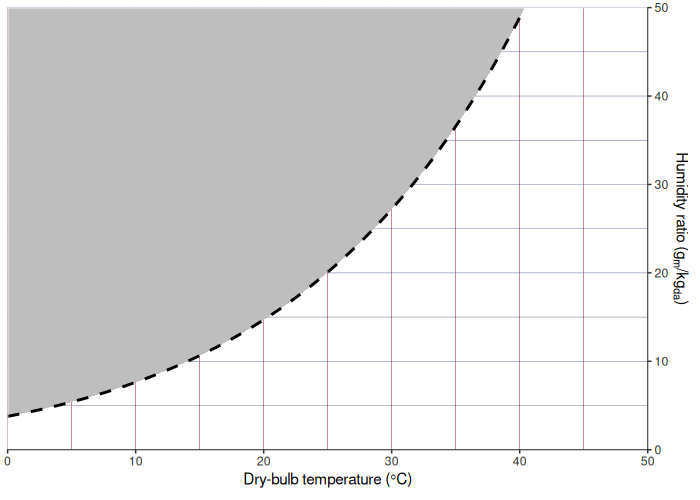
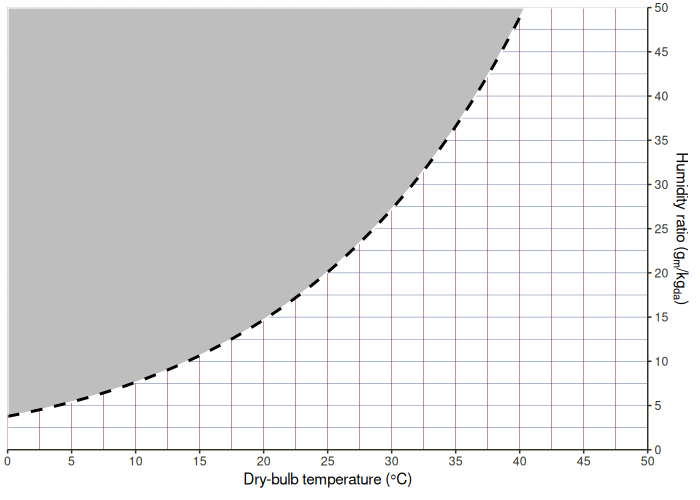
Update README.

diff --git a/README.md b/README.md
@@ -83,19 +83,34 @@ plot:
 | `geom_grid_specvol`  | Specific volume      |
 | `geom_grid_enthalpy` | Enthalpy             |
 
-All of the new geoms accept a `step` argument to specify the interval
-between each value.
+``` r
+ggpsychro() +
+    geom_grid_relhum() +
+    geom_grid_wetbulb() +
+    geom_grid_vappres() +
+    geom_grid_specvol() +
+    geom_grid_enthalpy()
+```
+
+<img src="man/figures/README-grid-1.png" width="100%" style="display: block; margin: auto;" />
+
+Each of the new geom come along with a corresponding `scale_*` which can
+be used to further customize the breaks of each grid
 
 ``` r
 ggpsychro() +
-    geom_grid_relhum(step = 20, label_loc = 0.8) +
-    geom_grid_wetbulb(step = 15, label_loc = 0.1) +
-    geom_grid_vappres(step = 1000, label = c(1000, 3000, 5000), label_loc = 0.95) +
-    geom_grid_specvol(step = 0.05, label_loc = 0.9) +
-    geom_grid_enthalpy(step = 50, label_loc = 0.9)
+    geom_grid_relhum(alpha = 1.0, label.alpha = 1.0, label.size = 6, label.fontface = 2) +
+    scale_relhum(minor_breaks = NULL) +
+    geom_grid_wetbulb(size = 1.0, color = "black", alpha = 1.0, label_loc = NA) +
+    scale_wetbulb(breaks = seq(25, 30, by = 5), minor_breaks = NULL) +
+    geom_grid_vappres(label.size = 5) +
+    scale_vappres(breaks = seq(6000, 7000, by = 500), limits = c(6000, 7000)) +
+    geom_grid_specvol() +
+    scale_specvol(labels = NULL) +
+    geom_grid_enthalpy()
 ```
 
-<img src="man/figures/README-grid-1.png" width="60%" style="display: block; margin: auto;" />
+<img src="man/figures/README-grid-2-1.png" width="100%" style="display: block; margin: auto;" />
 
 ### Stat
 
@@ -116,13 +131,12 @@ Working together with ggplot2 orignal geoms is as simple as change
 `stat` to your variable name of interest.
 
 ``` r
-library(ggplot2)
 library(eplusr) # for reading EPW data
 epw <- read_epw(file.path(eplus_config(8.8)$dir, "WeatherData/USA_CO_Golden-NREL.724666_TMY3.epw"))
 
 ggpsychro(epw$data()[month %in% 5:8]) +
-    geom_grid_relhum(step = 10, label_loc = 0.9) +
-    geom_point(aes(dry_bulb_temperature, relative_humidity), stat = "rel_hum", alpha = 0.1) +
+    geom_grid_relhum() +
+    geom_point(aes(dry_bulb_temperature, relhum = relative_humidity/100), stat = "relhum", alpha = 0.1) +
     facet_wrap(~month, labeller = as_labeller(function (x) paste0("Month: ", x)))
 ```
 
@@ -130,12 +144,10 @@ ggpsychro(epw$data()[month %in% 5:8]) +
 
 ``` r
 ggpsychro(tdb_lim = c(10, 35), hum_lim = c(0, 30)) +
-    geom_grid_relhum(step = 10, label_loc = 0.9) +
-    geom_grid_wetbulb(step = 10, label_loc = 0.1) +
+    geom_grid_relhum() +
+    geom_grid_wetbulb() +
     # 18 wet-bulb line with dry-bulb from 20 - 30
-    geom_line(aes(x = 20:30, y = 18), stat = "wet_bulb") +
-    # temperature range 24-28 with relative humidity from 40%-60%
-    geom_ribbon(aes(x = 24:28, ymin = 40, ymax = 60), stat = "rel_hum", fill = "skyblue", color = "black")
+    geom_line(aes(x = 20:30, wetbulb = 18), stat = "wetbulb")
 ```
 
 <img src="man/figures/README-stat-2-1.png" width="60%" style="display: block; margin: auto;" />
